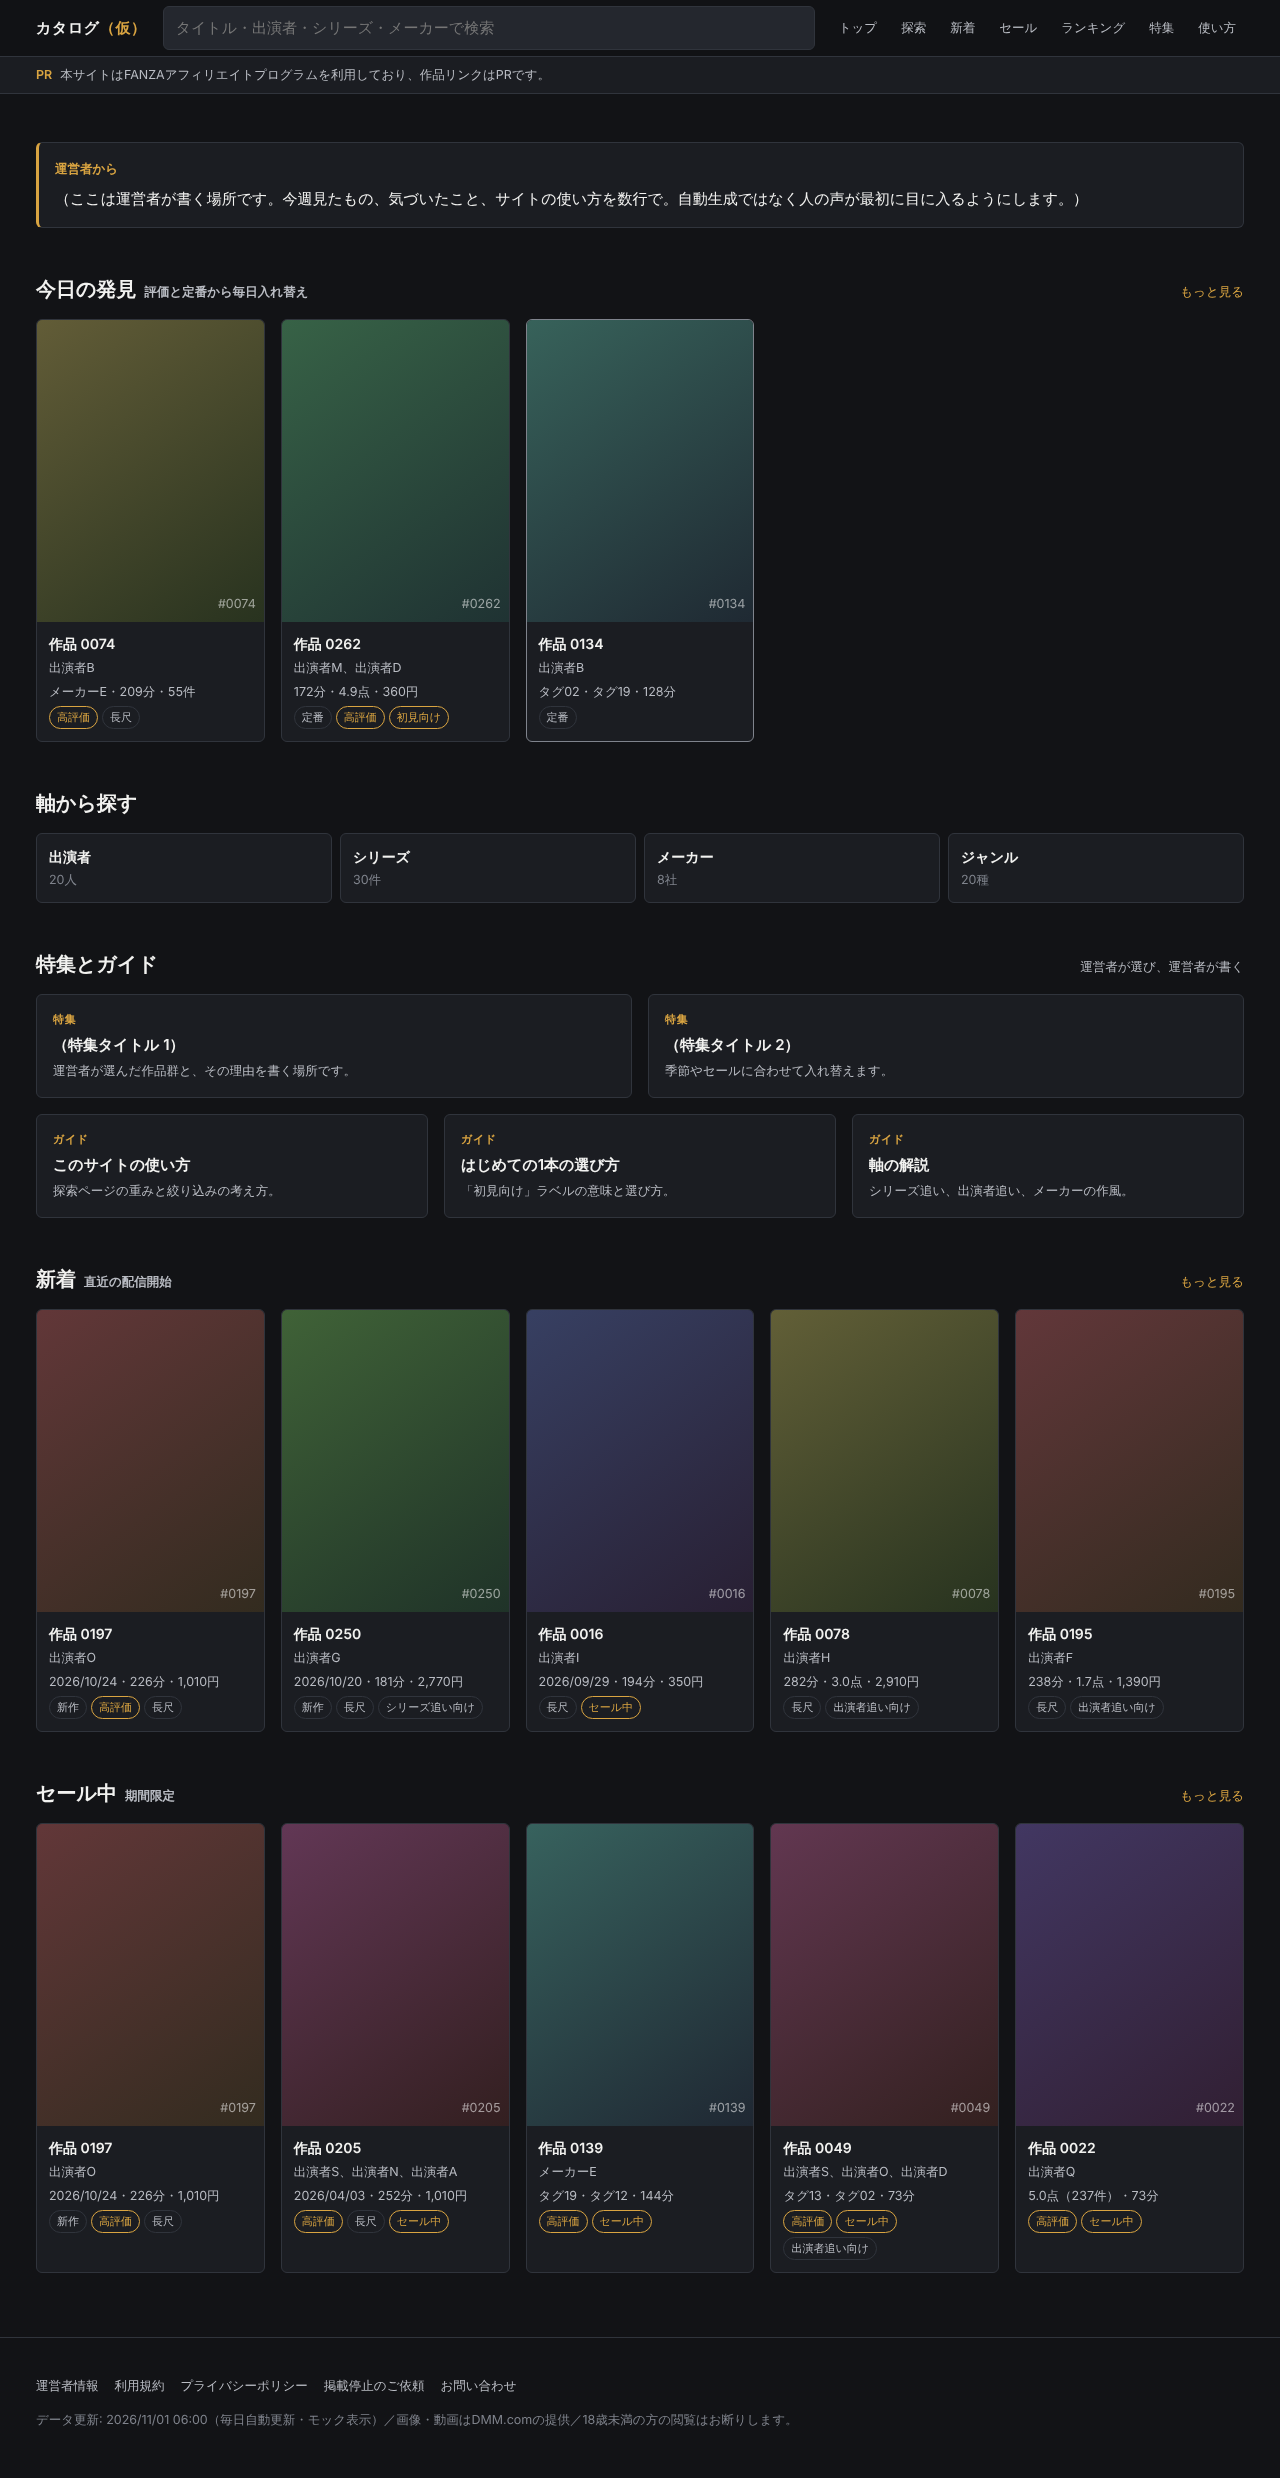
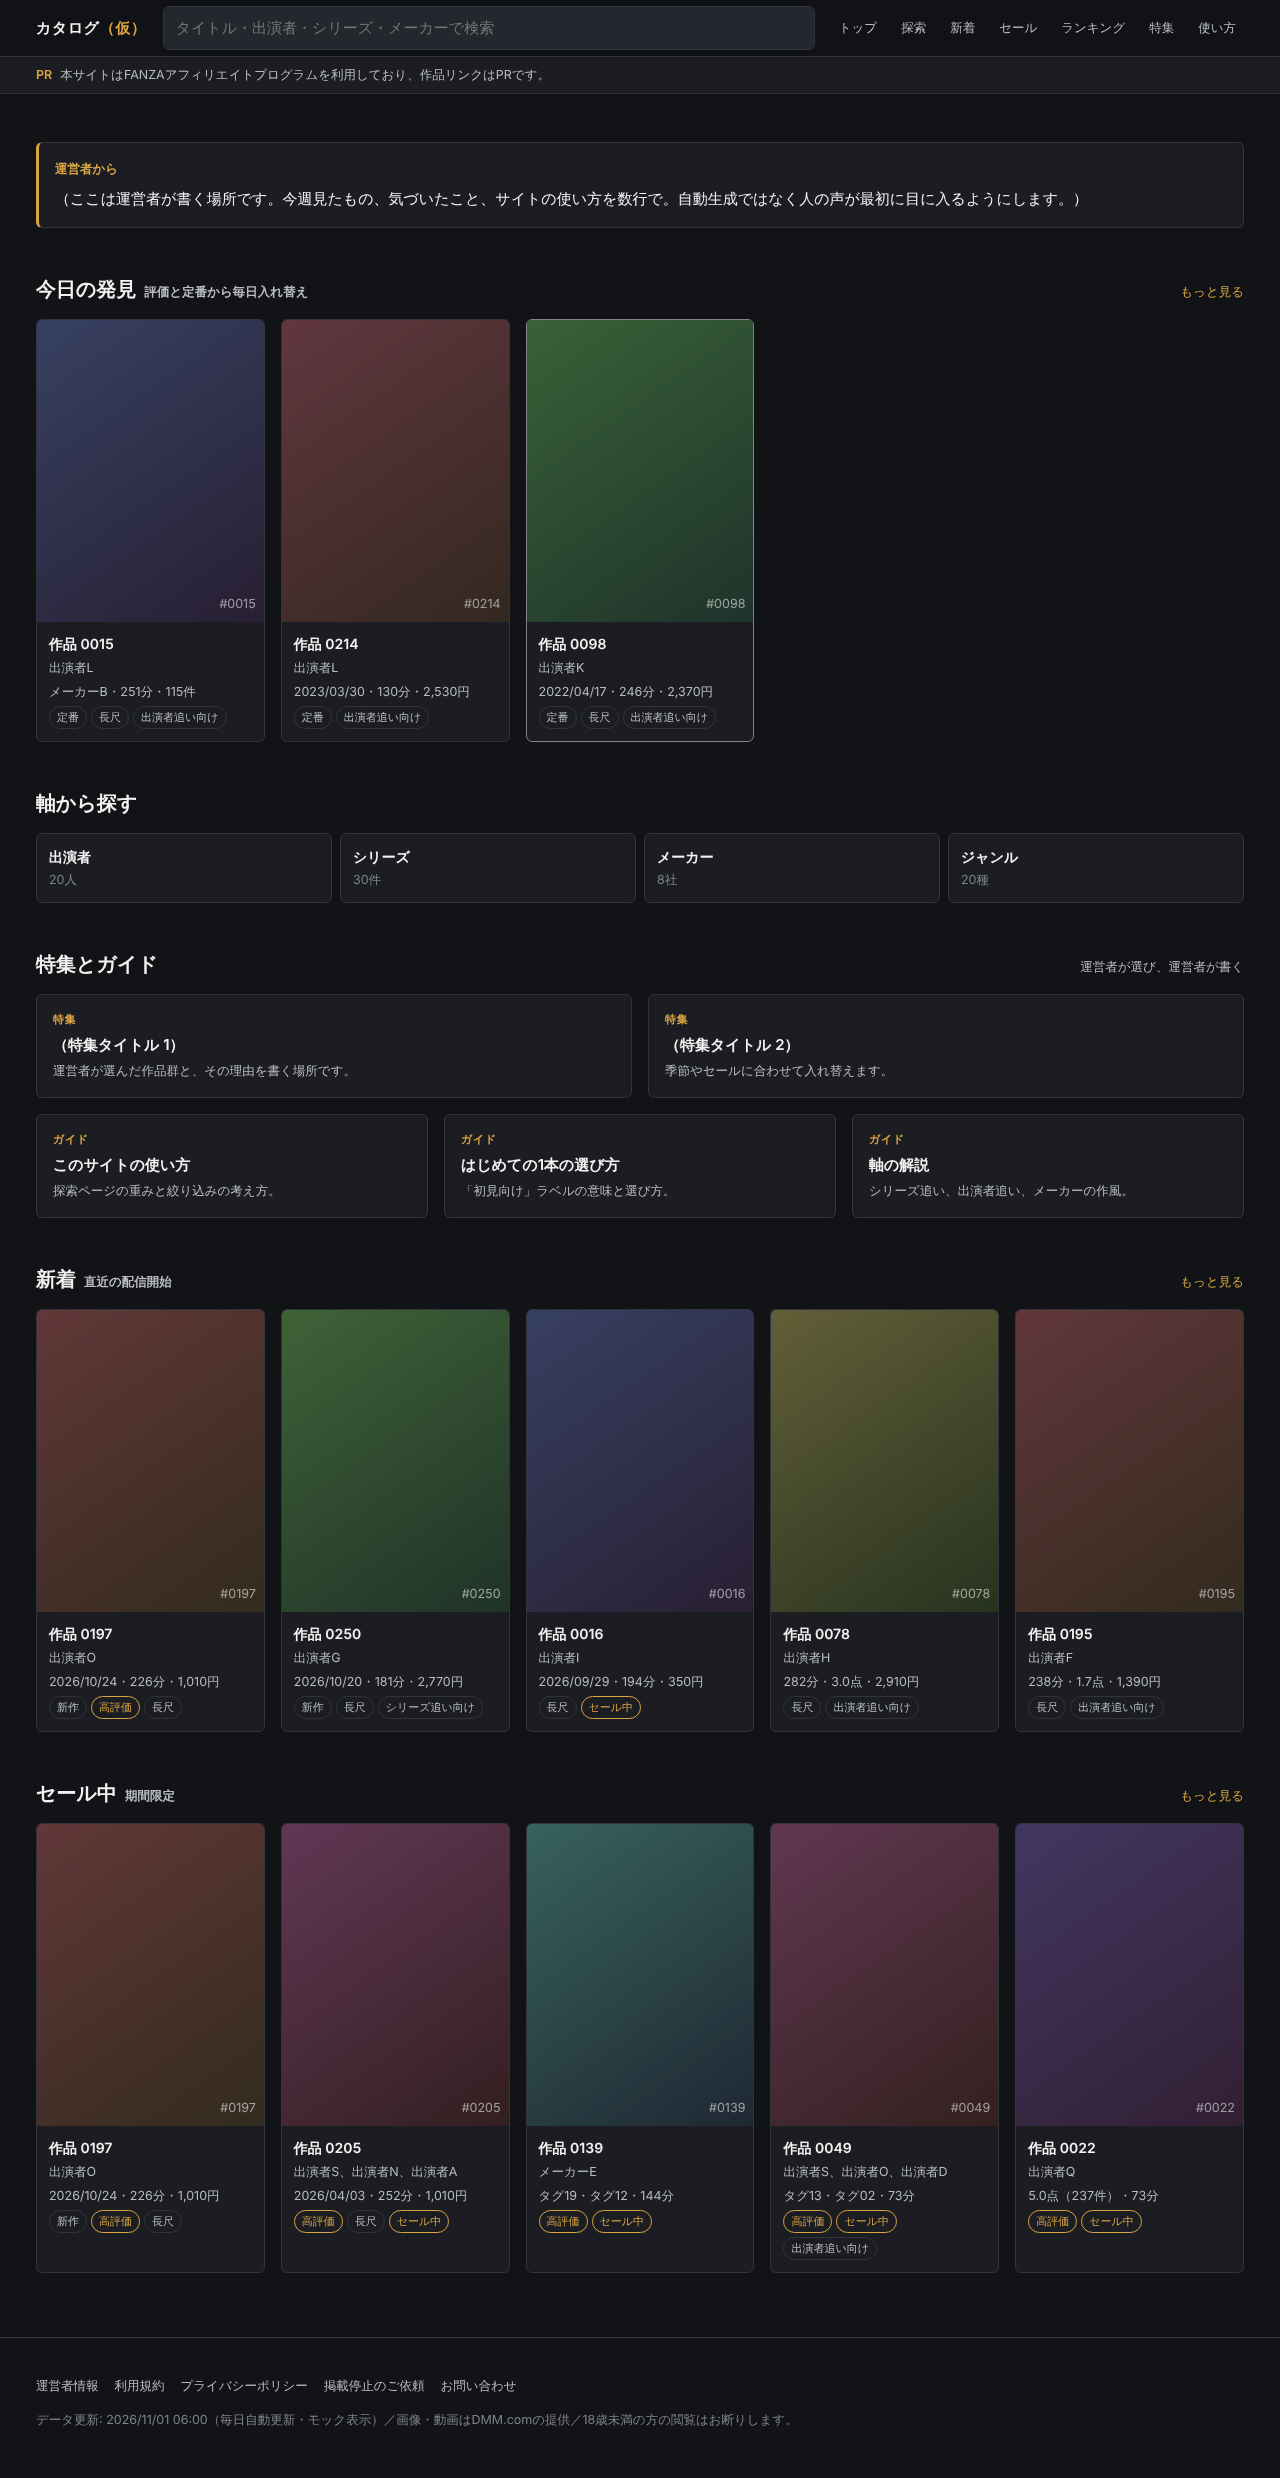
探索ページを追加（出力JSONの配信、絞り込み・並べ替え・モーダル）。hidden属性の優先を修正
Claude-Session: https://claude.ai/code/session_01UqbETQz4iGMKzByhtzLyAe

Changed region(s): [[0.0312, 0.1243, 0.5938, 0.3107], [0.5, 0.2797, 0.5312, 0.3107], [0.4375, 0.2486, 0.4688, 0.2797]]

diff --git a/mocks/common.css b/mocks/common.css
@@ -150,3 +150,6 @@ body.show-ad-slots .ad-slot { display: flex; }
 .detail, .stack, .modal-body, .detail > div { grid-template-columns: minmax(0, 1fr); }
 @media (min-width: 960px) { .detail { grid-template-columns: 320px minmax(0, 1fr); } }
 .stack { display: grid; gap: calc(var(--sp) * 3); }
+
+/* hidden 属性を display 指定より優先する（空状態の枠が常時表示される不具合の修正） */
+[hidden] { display: none !important; }

diff --git a/src/styles/common.css b/src/styles/common.css
@@ -150,3 +150,6 @@ body.show-ad-slots .ad-slot { display: flex; }
 .detail, .stack, .modal-body, .detail > div { grid-template-columns: minmax(0, 1fr); }
 @media (min-width: 960px) { .detail { grid-template-columns: 320px minmax(0, 1fr); } }
 .stack { display: grid; gap: calc(var(--sp) * 3); }
+
+/* hidden 属性を display 指定より優先する（空状態の枠が常時表示される不具合の修正） */
+[hidden] { display: none !important; }
